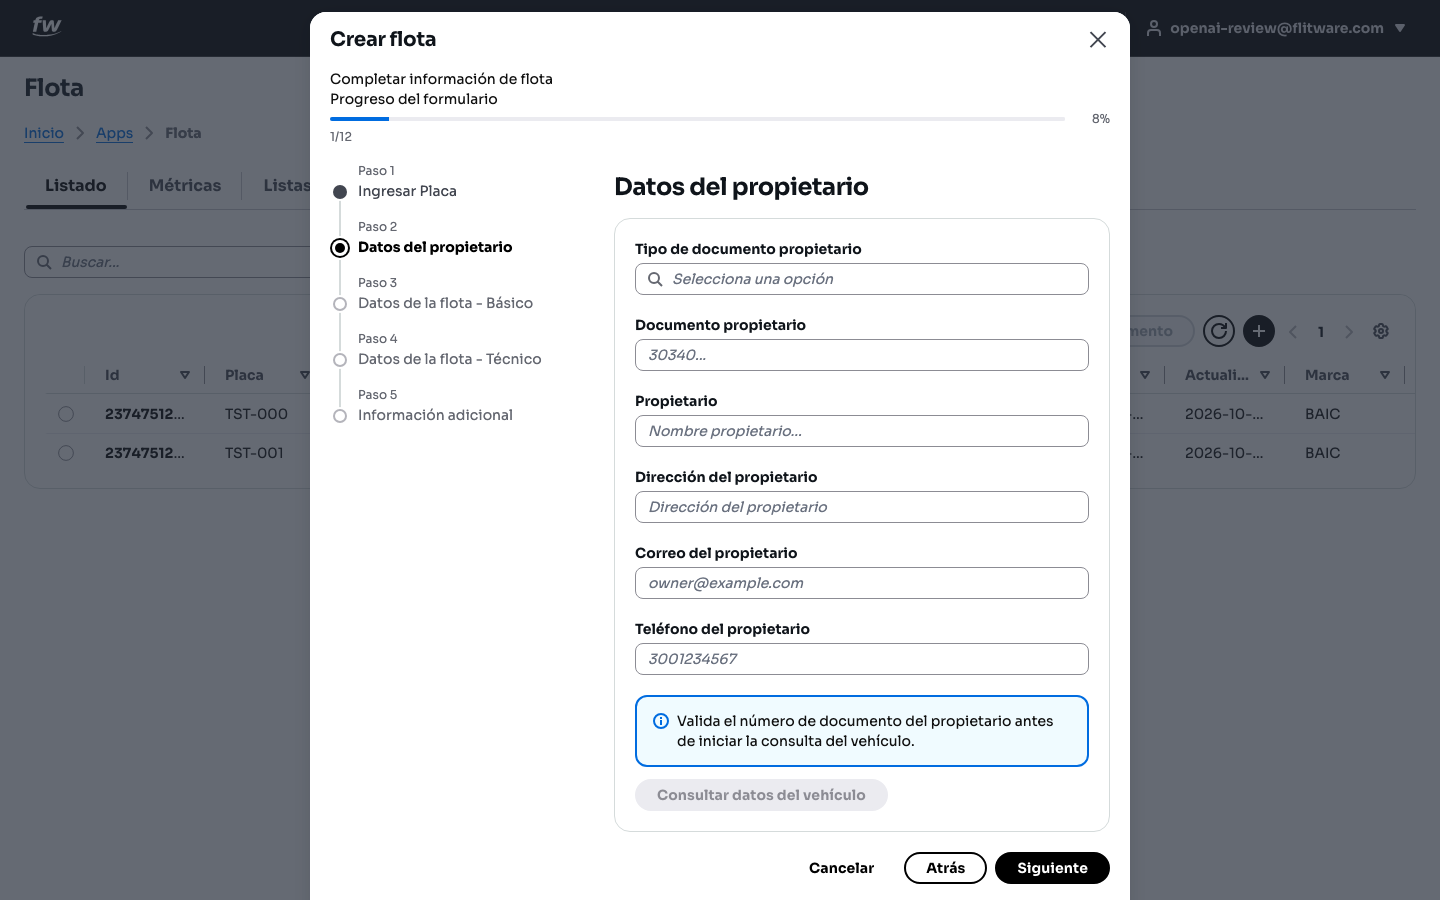
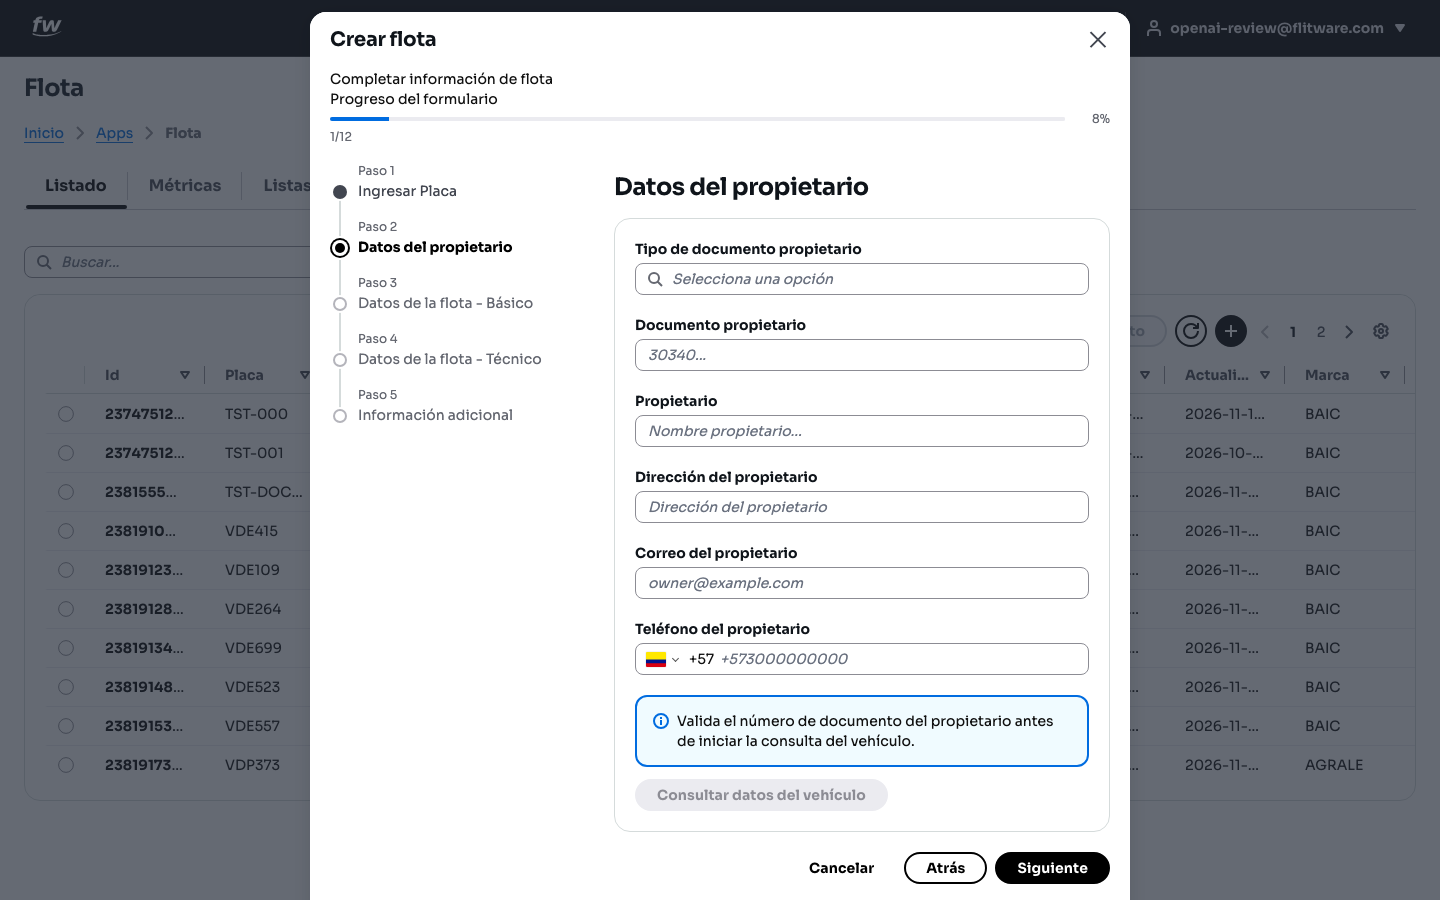
docs(flotas): teléfono propietario con indicativo país + tab mantenimiento con enlaces
- Recaptura paso 2 wizard (03, 03b): nuevo campo teléfono con bandera e indicativo
- Nueva sección Mantenimiento en ficha (12): códigos de OT y títulos de novedad clicables
- Texto ES actualizado en ambos flujos

diff --git a/docs/operacion/flotas.md b/docs/operacion/flotas.md
@@ -46,7 +46,7 @@ Tome la foto de la tarjeta sobre una mesa, con buena luz y sin dedos encima. Si 
 ### Paso 2 — Datos del propietario
 
 1. Seleccione el **Tipo de documento propietario** (por ejemplo, NIT).
-2. Escriba el **Documento propietario**, el **Propietario**, la **Dirección del propietario**, el **Correo del propietario** y el **Teléfono del propietario**.
+2. Escriba el **Documento propietario**, el **Propietario**, la **Dirección del propietario**, el **Correo del propietario** y el **Teléfono del propietario**. En el teléfono, verifique el indicativo del país (por ejemplo, +57 Colombia; pulse la bandera para cambiarlo) y escriba el número sin espacios ni guiones.
 3. El sistema le recuerda: *"Valida el número de documento del propietario antes de iniciar la consulta del vehículo."*
 4. Pulse **Consultar datos del vehículo** para traer los datos oficiales asociados a la placa y el documento.
 5. Pulse **Siguiente**.
@@ -119,6 +119,12 @@ En la pestaña **Historial** verá:
 - **Historial de lecturas**: tabla con **Fecha de lectura**, **Medidor**, **Lectura**, **Origen** (por ejemplo, Manual) y **Referencia**. Puede filtrar con **Todos los medidores** y buscar con la barra **Buscar...**.
 
 ![Historial de lecturas de odómetro y horómetro](../shots/fase3a/10-fleet-historial-odometro.png)
+
+### Mantenimiento: órdenes y novedades del vehículo
+
+En la pestaña **Mantenimiento** verá las **Órdenes de trabajo** del vehículo (código, título y estado), sus **Novedades** abiertas (título, severidad y estado) y las **Lecturas de medidor**. Pulse el código de una orden o el título de una novedad para abrir su detalle en el módulo de Mantenimiento. Con **Ver mantenimiento completo** irá al listado general.
+
+![Mantenimiento del vehículo: órdenes y novedades](../shots/fase3a/12-fleet-detalle-mantenimiento.png)
 
 :::tip Recomendación del experto
 Pida a cada conductor que reporte el kilometraje al terminar su turno y regístrelo el mismo día. Un historial de lecturas completo es la diferencia entre un mantenimiento planeado y una varada en carretera.
